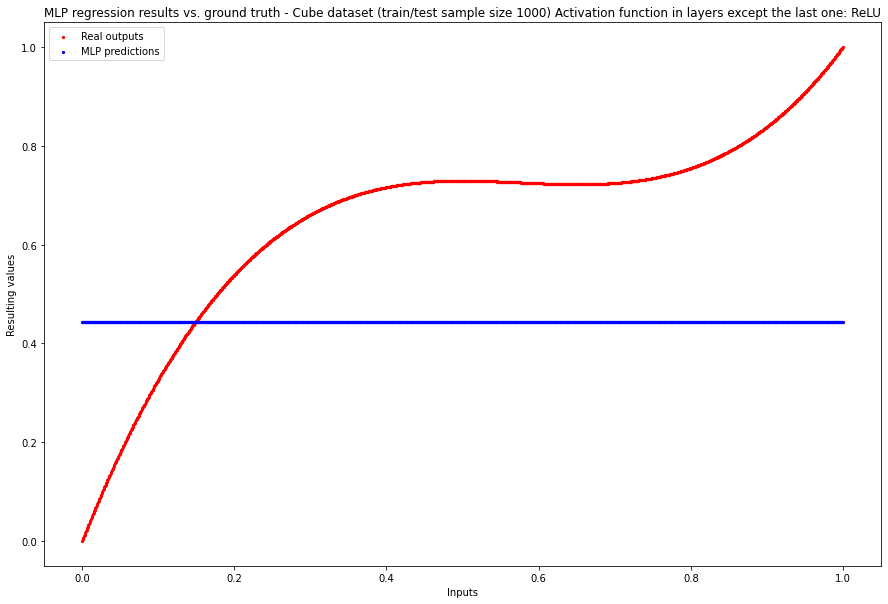
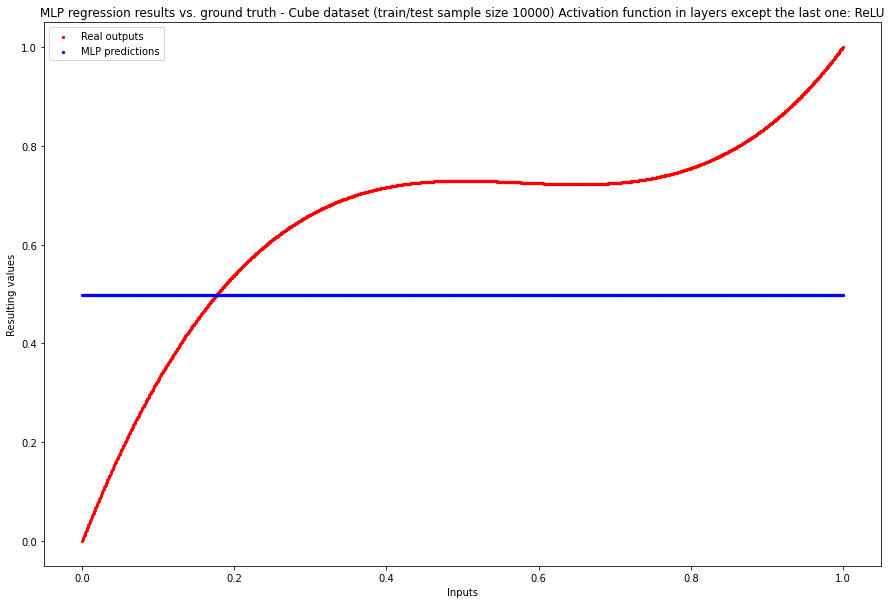
Extend analysis report section

diff --git a/doc/report.md b/doc/report.md
@@ -36,7 +36,7 @@ quite complex and interesting.
 In this task we are asked to create a simple MLP from scratch, 
 using only libriaries that allow primitive matrix operations. Most importantly
 we are asked to implement backpropagation algorithm which will allow the
-network to adjust it's parameter to fit the task.
+network to adjust it's parameter to fit the data provided.
 
 \newpage
 
@@ -79,7 +79,7 @@ representing the image. After that its neurons will fire passing signals to the 
 layer. The same will happen for the following layers, until the signal is passed
 to the last layer the "output". This is our resulting signal. Depending
 on the task they may be one or many output neurons. Interpretation of network
-result will also be dependent on the task - the results may be probabilities,
+result will also be dependent on the task - the results may be probabilities
 or real values, with any number of output signals.
 
 At each neuron it's input signals are multiplied by given connections
@@ -119,7 +119,6 @@ In principle the backpropagation algorithm works by computing the gradient of
 the loss function with respect to each weight by the chain rule, computing the gradient
 one layer at a time, iterating backward from the last layer to avoid redundant calculations
 of intermediate terms in the chain rule.
-For a more detailed description please refer to TODO:[1]
 
 The algorith is parallelizable and efficient, which makes it feasible to use
 for training multilayer networks, updating weights to minimize loss.
@@ -128,22 +127,48 @@ for training multilayer networks, updating weights to minimize loss.
 
 # Experiments
 
+Before running specific experiments we tried to fit our network to each of the
+provided datasets. We picked the largest sample size to do that (10000).
+This was done to determine reasonable initial paramters before performing 
+more specific tests.
+
+The results were satisfactory and the predictions vs. real values plots for all
+the datasets are visible below.
+
+
+![Actual output vs predictions - Simple dataset](decisions_gen_simple.png){ width=450px }
+\break
+![Actual output vs predictions - Three Gauss dataset](decisions_gen_gauss.png){ width=450px }
+\break
+![Actual output vs predictions - Activation dataset](decisions_gen_activation.png){ width=450px }
+\break
+![Actual output vs predictions - Cube dataset](decisions_gen_cube_raw.png){ width=450px }
+\break
+
+The results for Cube data as seen above were not satisfactory. After some further inspection
+we found out that the distribution of the training and testing data was not the same.
+Because of that we normalized both inputs and outputs to (0, 1) range using
+min-max normalization. The following - in our opinion satisfactory - result was achieved.
+\break
+
+
+![Actual output vs predictions - Cube dataset with normalization](decisions_gen_cube_norm.png){ width=400px }
+\break
+
 ## Impact of various activation functions on accuracy
 
-To test impact of activation functions on accuracy we took a look at 3 activation functions and 2 datasets.
-The specified activation function was chosen in every layer except the last one.
+To test impact of activation functions on accuracy we considered 3 activation functions and 2 datasets.
+The specified activation function was set in every layer except the last one.
 
 1. Sigmoid
 2. ReLU
 3. TanH
 
-All test where performed on dataset of size 1000 to speed up the computations. If the time allowed
-to calculate the results on datasets of bigger sizes it would be suggested to do that in the 
-future.
+As a reminder the test were performed on largest datasets available, each of 10000 samples.
 
 ###  Simple dataset - binary classification
 
-Apart from the activation functions all other parameters are fixed as follows:
+Apart from the activation functions all other parameters were fixed as follows:
 
 ```bash
 layers = [
@@ -165,15 +190,16 @@ layers = [
 
 `activation_function` is just one of the three specified activations.
 
-The losses on corresponding test dataset are as follows:
+The losses on corresponding test dataset were as follows:
 
 ```bash
-=======================================================================================
-Simple dataset (train/test sample size 1000)
-=======================================================================================
+======================================================================
+Simple dataset (train/test sample size 10000)
+======================================================================
 Sigmoid  - train loss 0.032 (std:0.02) - test loss 0.033 (std:0.11)
 ReLU     - train loss 0.025 (std:0.04) - test loss 0.031 (std:0.21)
 TanH     - train loss 0.020 (std:0.04) - test loss 0.011 (std:0.08)
+======================================================================
 ```
 
 We can clearly see that the best performance is achieved by TanH activation in
@@ -181,13 +207,17 @@ this case. This is also confirmed by low loss standard deviation on the test set
 
 If we inspect the decision boundary of the network our suspicions are further confirmed.
 
-![Decision boundary of Sigmoid activations - Simple dataset](decisions_sig_simple.png){ width=250px }
-![Decision boundary of ReLU activations - Simple dataset](decisions_rel_simple.png){ width=250px }
-![Decision boundary of TanH activations - Simple dataset](decisions_tanh_simple.png){ width=250px }
+![Decision boundary of Sigmoid activations - Simple dataset](decisions_sig_simple.png){ width=450px }
+\break
+![Decision boundary of ReLU activations - Simple dataset](decisions_rel_simple.png){ width=450px }
+\break
+![Decision boundary of TanH activations - Simple dataset](decisions_tanh_simple.png){ width=450px }
 
 ###  Cube dataset - regression
 
-When performing the regression test on Cube dataset we also fixed all 
+The next experiment we decided to perform was comparing various activation functions
+on regression data. Cube dataset was chosen.
+When performing the test on Cube dataset we also fixed all 
 other network parameters. They present in the following way.
 
 ```bash
@@ -210,28 +240,44 @@ m = MLP(
 
 `activation_function` is just one of the three specified activations.
 
+\newpage
+
 The losses on corresponding test dataset are as follows:
 
 ```bash
-=======================================================================================
-Simple dataset (train/test sample size 1000)
-=======================================================================================
+=====================================================================
+Cube dataset (train/test sample size 10000)
+=====================================================================
 Sigmoid  - train loss 0.054 (std:0.04) - test loss 0.044 (std:0.04)
 ReLU     - train loss 0.163 (std:0.14) - test loss 0.269 (std:0.11)
 TanH     - train loss 0.089 (std:0.07) - test loss 0.060 (std:0.03)
+=====================================================================
 ```
 
 We can clearly see that the best performance is achieved by Sigmoid activation in
 this case. We may say that the Sigmoid activation function works better in the
 case of regression in case of this particular dataset.
 
-This confirms that there are no clear rule about selection of activation functions.
+This confirms that there are no clear rules about selection of activation functions.
 
 We could also inspect predicions on the test dataset for every activation.
 
-![Results of Sigmoid activations - Cube dataset](decisions_sig_cube.png){ width=250px }
-![Results of ReLU activations - Cube dataset](decisions_rel_cube.png){ width=250px }
-![Results of TanH activations - Cube dataset](decisions_tanh_cube.png){ width=250px }
+![Results of Sigmoid activations - Cube dataset](decisions_sig_cube.png){ width=450px }
+\break
+We can notice that our prediction curve "bends" slightly but fails to fit the data
+perfectly. Possibly this could be fixed by increasing epoch size.
+\break
+![Results of ReLU activations - Cube dataset](decisions_rel_cube.png){ width=450px }
+\break
+With ReLU as activation function our data is not approximated at all. Network
+fails to learn and just ouputs constant value as a result.
+\break
+![Results of TanH activations - Cube dataset](decisions_tanh_cube.png){ width=450px }
+\break
+The best result is achieved with TanH activation function. Even though the model
+is not fitted perfectly (especially visible for X value from 0.6 - 0.8 range)
+it achieves the best result with provided nework architecture and parameters.
+\break
 
 
 ## Impact of number of hidden layers and their size on accuracy
@@ -245,93 +291,106 @@ hidden_layers = [1, 3, 5]
 hidden_layer_sizes = [3, 5, 10]
 ```
 
-### Three Gauss dataset
+### Three Gauss dataset - classification
 
 The following parameters were fixed when performing layer experiments on Gauss dataset:
 
 ```bash
- layers = [
-            Layer(in_size=2, out_size=hidden_layer_size, activ_function=Sigmoid),
-	    ... hidden layers of appropriate sizes ...
-            Layer(in_size=hidden_layer_size, out_size=3, activ_function=SoftMax),
-        ]
-        m = MLP(
-            layers=layers,
-            loss=CategoricalCrossEntropy,
-            bias=True,
-            batch_size=16,
-            epochs=100,
-            momentum=0.1,
-            learning_rate=0.2,
-        )
+layers = [
+    Layer(in_size=2, out_size=hidden_layer_size, activ_function=Sigmoid),
+    ... hidden layers of appropriate sizes ...
+    Layer(in_size=hidden_layer_size, out_size=3, activ_function=SoftMax),
+]
+m = MLP(
+    layers=layers,
+    loss=CategoricalCrossEntropy,
+    bias=True,
+    batch_size=16,
+    epochs=100,
+    momentum=0.1,
+    learning_rate=0.2,
+)
 
 ```
 
-The results are presented in the table below. Column names correspond to number of hidden layers.
-Row names correspond to number of neurons in each hidden layer.
+The losses on test dataset are presented in the table below. Columns correspond to number of hidden layers.
+Rows correspond to number of neurons in each hidden layer.
 
 
 ```bash
- 		1 			3 			5
-3 	0.178 (std: 0.40) 	0.367 (std: 0.02) 	0.367 (std: 0.02)
-5 	0.078 (std: 0.18) 	0.367 (std: 0.02) 	0.367 (std: 0.03)
-10 	0.078 (std: 0.20) 	0.367 (std: 0.02) 	0.370 (std: 0.05)
+
+Layers number:        1 			3 			5
+Layer size:
+3 	       0.178 (std: 0.40) 	0.367 (std: 0.02) 	0.367 (std: 0.02)
+5 	       0.078 (std: 0.18) 	0.367 (std: 0.02) 	0.367 (std: 0.03)
+10 	       0.078 (std: 0.20) 	0.367 (std: 0.02) 	0.370 (std: 0.05)
 ```
 
 We can see that the network learns best in case of having only a single hidden layer.
 Especially the single hidden layer size 5 and 10 produce promising results.
 
-It is possible that if we adjusted other network parameters we would get 
-better result for larger networks, as they didn't have a chance to learn.
-(the learning rate or the momentum were to small).
+With 3 and 5 layers is unable to learn. This could be caused by the fact
+that other parameters where initially picked for network of a single hidden layer.
+This could be one of the directions of further reaserch.
 
-### Activation dataset
+We conclude that for this specific dataset and other parameters the network 
+showed most learning capabilities with only a single hidden layer.
 
+### Activation dataset - regression
+
+The activation dataset was pick-up to test different architectures in case of regression data.
 The following parameters were fixed when performing layer experiments on Activation dataset:
 
 ```bash
 layers = [
-            Layer(in_size=1, out_size=hidden_layer_size, activ_function=Sigmoid),
-	    ... hidden layers of appropriate sizes ...
-            Layer(in_size=hidden_layer_size, out_size=1, activ_function=Linear),
-        ]
-        m = MLP(
-            layers=layers,
-            loss=AbsoluteError,
-            bias=True,
-            batch_size=16,
-            epochs=70,
-            momentum=0.1,
-            learning_rate=0.01,
-        )
-
+    Layer(in_size=1, out_size=hidden_layer_size, activ_function=Sigmoid),
+    ... hidden layers of appropriate sizes ...
+    Layer(in_size=hidden_layer_size, out_size=1, activ_function=Linear),
+]
+m = MLP(
+    layers=layers,
+    loss=AbsoluteError,
+    bias=True,
+    batch_size=16,
+    epochs=70,
+    momentum=0.1,
+    learning_rate=0.01,
+)
 ```
 
-The results are presented in the table below. Column names correspond to number of hidden layers.
-Row names correspond to number of neurons in each hidden layer.
-
+The losses on test dataset are presented in the table below. Columns correspond to number of hidden layers.
+Rows correspond to number of neurons in each hidden layer.
 
 ```bash
- 		1 			3 			5
-3 	4.596 (std: 8.19) 	109.870 (std: 57.15) 	109.703 (std: 59.94)
-5 	27.830 (std: 21.04) 	109.718 (std: 59.91) 	109.743 (std: 59.07)
-10 	109.669 (std: 63.01) 	109.679 (std: 60.51) 	109.683 (std: 60.37)
+		1 			3 			5
+3 	2.409 (std: 4.69) 	109.665 (std: 60.98) 	109.817 (std: 57.75)
+5 	1.871 (std: 3.48) 	109.781 (std: 58.43) 	109.568 (std: 64.96)
+10 	1.768 (std: 3.35) 	109.885 (std: 56.73) 	109.712 (std: 59.70)
 ```
 
-Once again the best result are achieved with small network and hidden layer size.
+Once again the best result are achieved with small network and hidden layer size. With more layers
+the network fails to learn at all.
+More interestingly, in case of a single layer the task is better achieved by using more hiddent neurons.
+The jump seems to be especially high between 3 and 5 neurons. However adding addictional
+5 neurons only decreases the test error slightly.
+This is possibly due to the fact that with bigger neuron number model is getting close to overfitting.
+If we increased the neuron number even more, the test loss might even increase instead of decreasing.
 
 # Conclusions
 
 We successfuly experimented with both network architecture as well as activation functions.
-Unfortunatelly it is very hard to propose specific conclusions. Neural network hyperparameters
-seem to be very dependent on specific datasets, and therefore another parameters may
-work better in case of different cases.
+Unfortunatelly when performing latter experiment the results were not especially
+interesting for more than a single hidden layer. Experiments with deep networks with
+accordingly adjusted parameters could be interesting further research direction.
 
-# References
-1. Andrej Karpathy Micrograd implementation.
-   Retrieved from: https://github.com/karpathy/micrograd
-2. MLPs with Backpropagation. CS 472 – Backpropagation. 
-   Retrieved from https://axon.cs.byu.edu/~martinez/classes/478/slides/BP.pdf
-3. Brownlee, J. (2016). How to Code a Neural Network with Backpropagation In Python (from scratch). 
-   Machine Learning Mastery.
-   Retrieved from https://machinelearningmastery.com/implement-backpropagation-algorithm-scratch-python/
+Unfortunatelly it is very hard to propose specific conclusions after our experiments.
+Neural network hyperparameters seem to be very dependent on specific datasets,
+and therefore different parameters may work better in case of different cases.
+
+\newpage
+
+# References and resources used
+1. [Andrej Karpathy Micrograd - micro machine learning framework](https://github.com/karpathy/micrograd)
+2. [MLPs with Backpropagation. CS 472 – Backpropagation.](https://axon.cs.byu.edu/~martinez/classes/478/slides/BP.pdf)
+3. [Brownlee, J. (2016). How to Code a Neural Network with Backpropagation In Python (from scratch).  Machine Learning Mastery.](https://machinelearningmastery.com/implement-backpropagation-algorithm-scratch-python/) 
+4. [3Blue1Brown Deep Learning YouTube series](https://www.youtube.com/playlist?list=PLZHQObOWTQDNU6R1_67000Dx_ZCJB-3pi)
